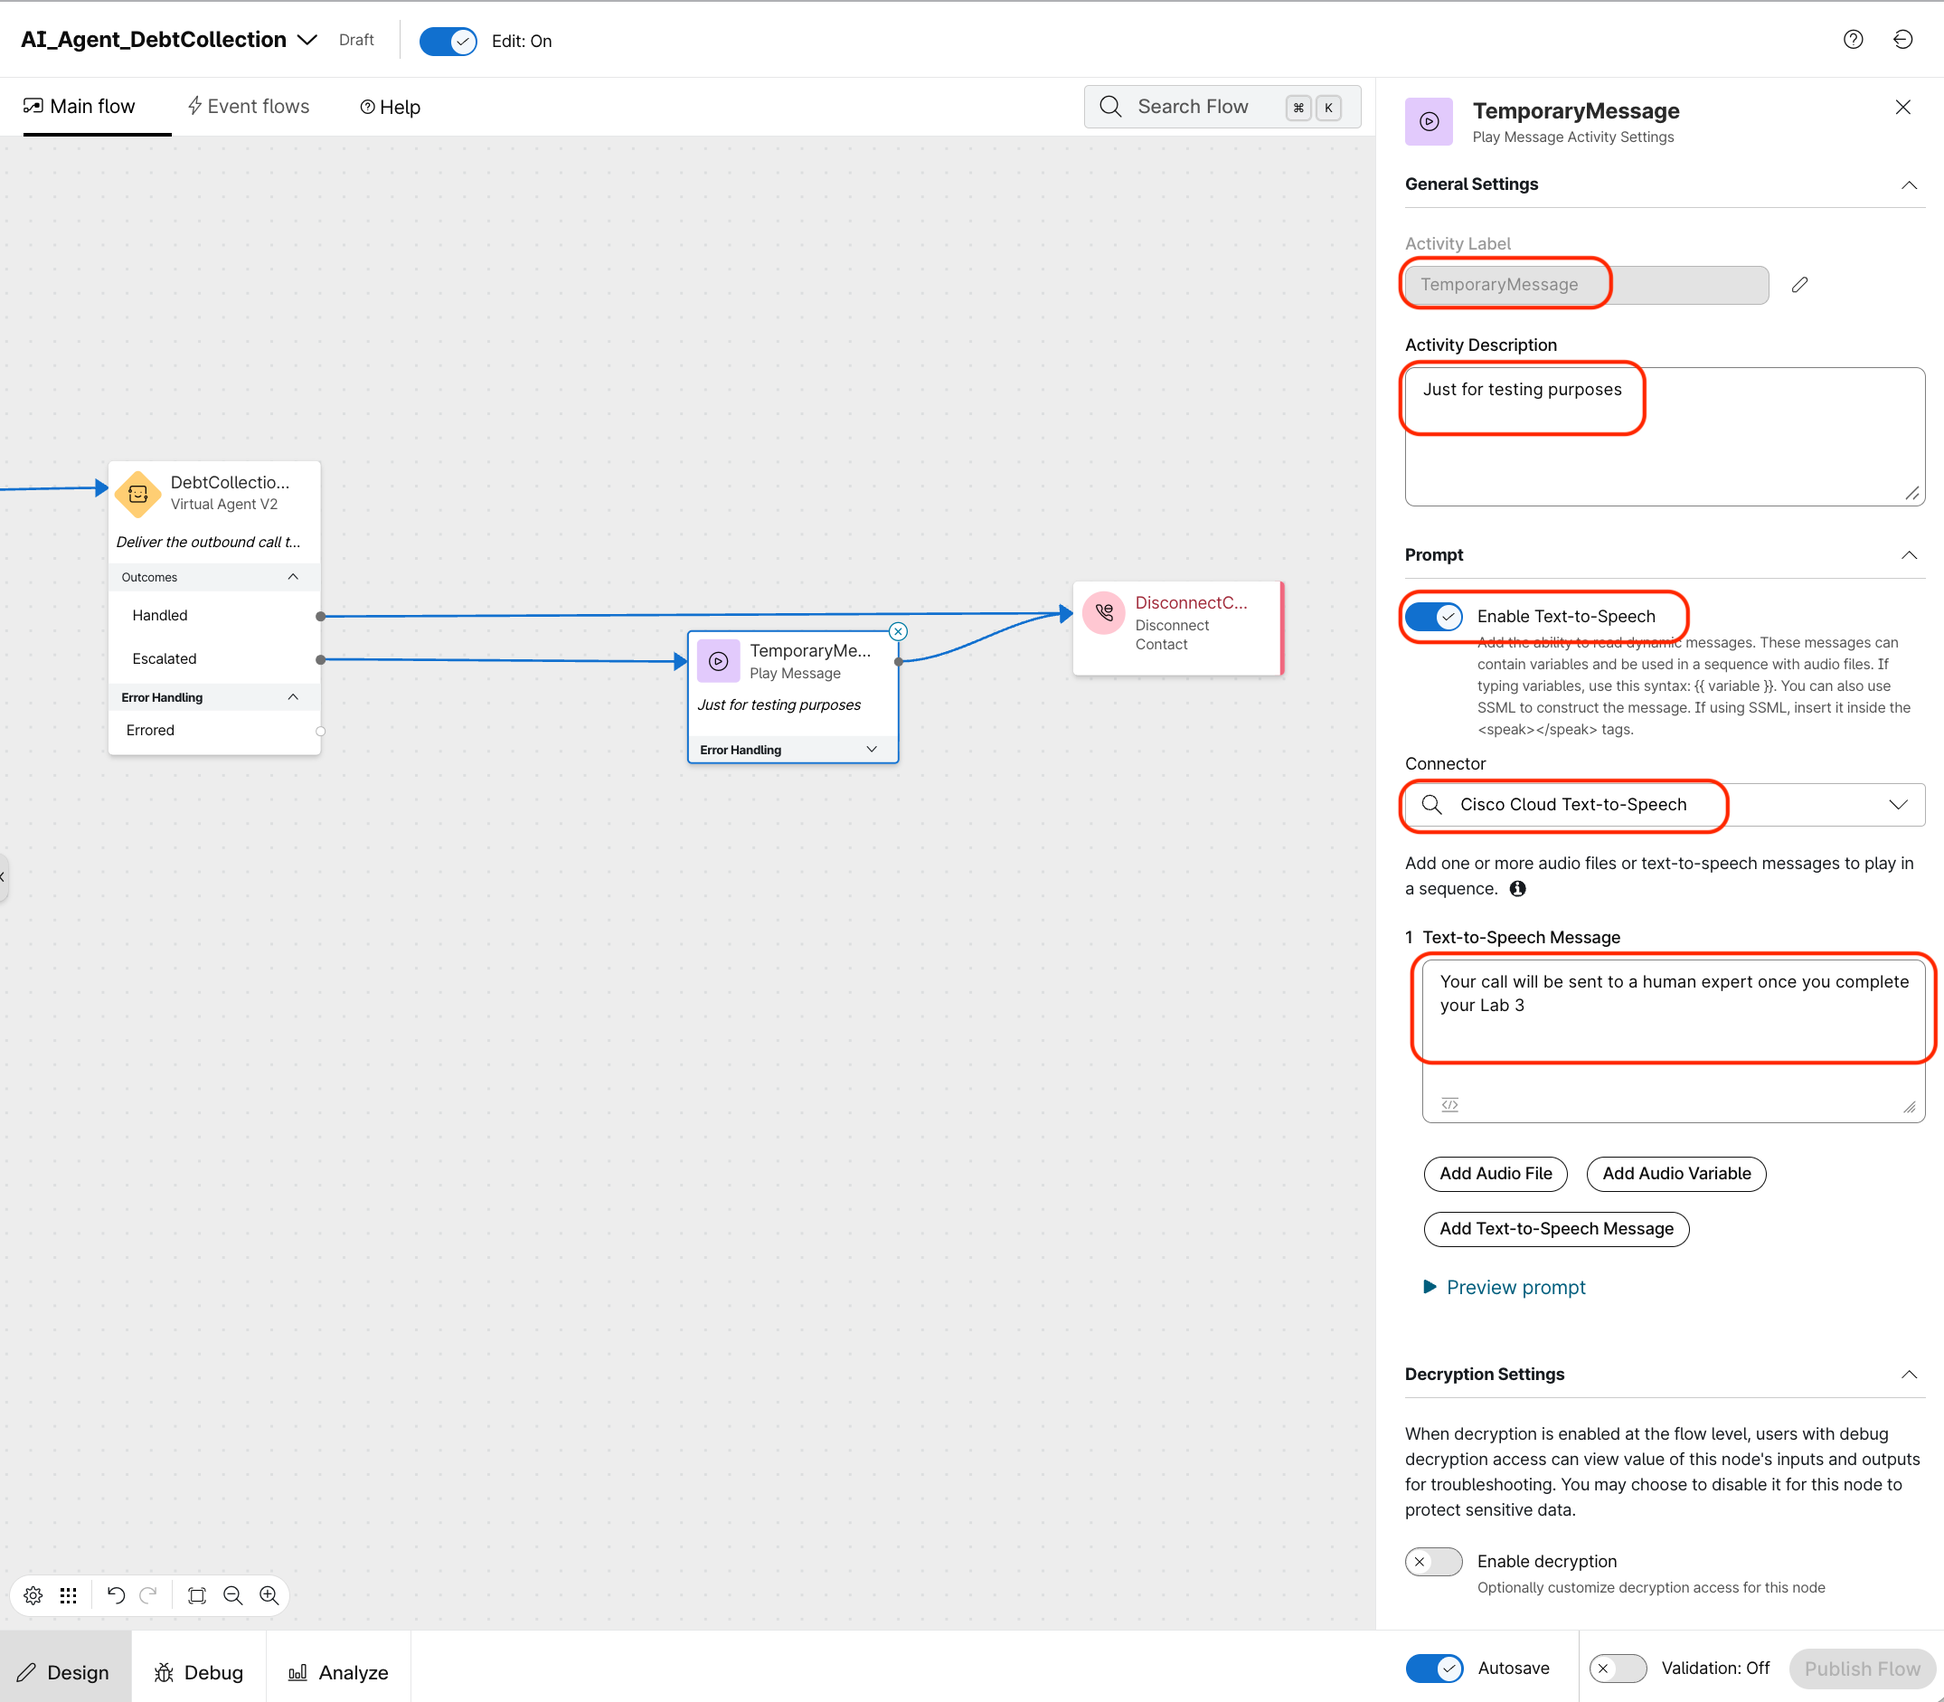
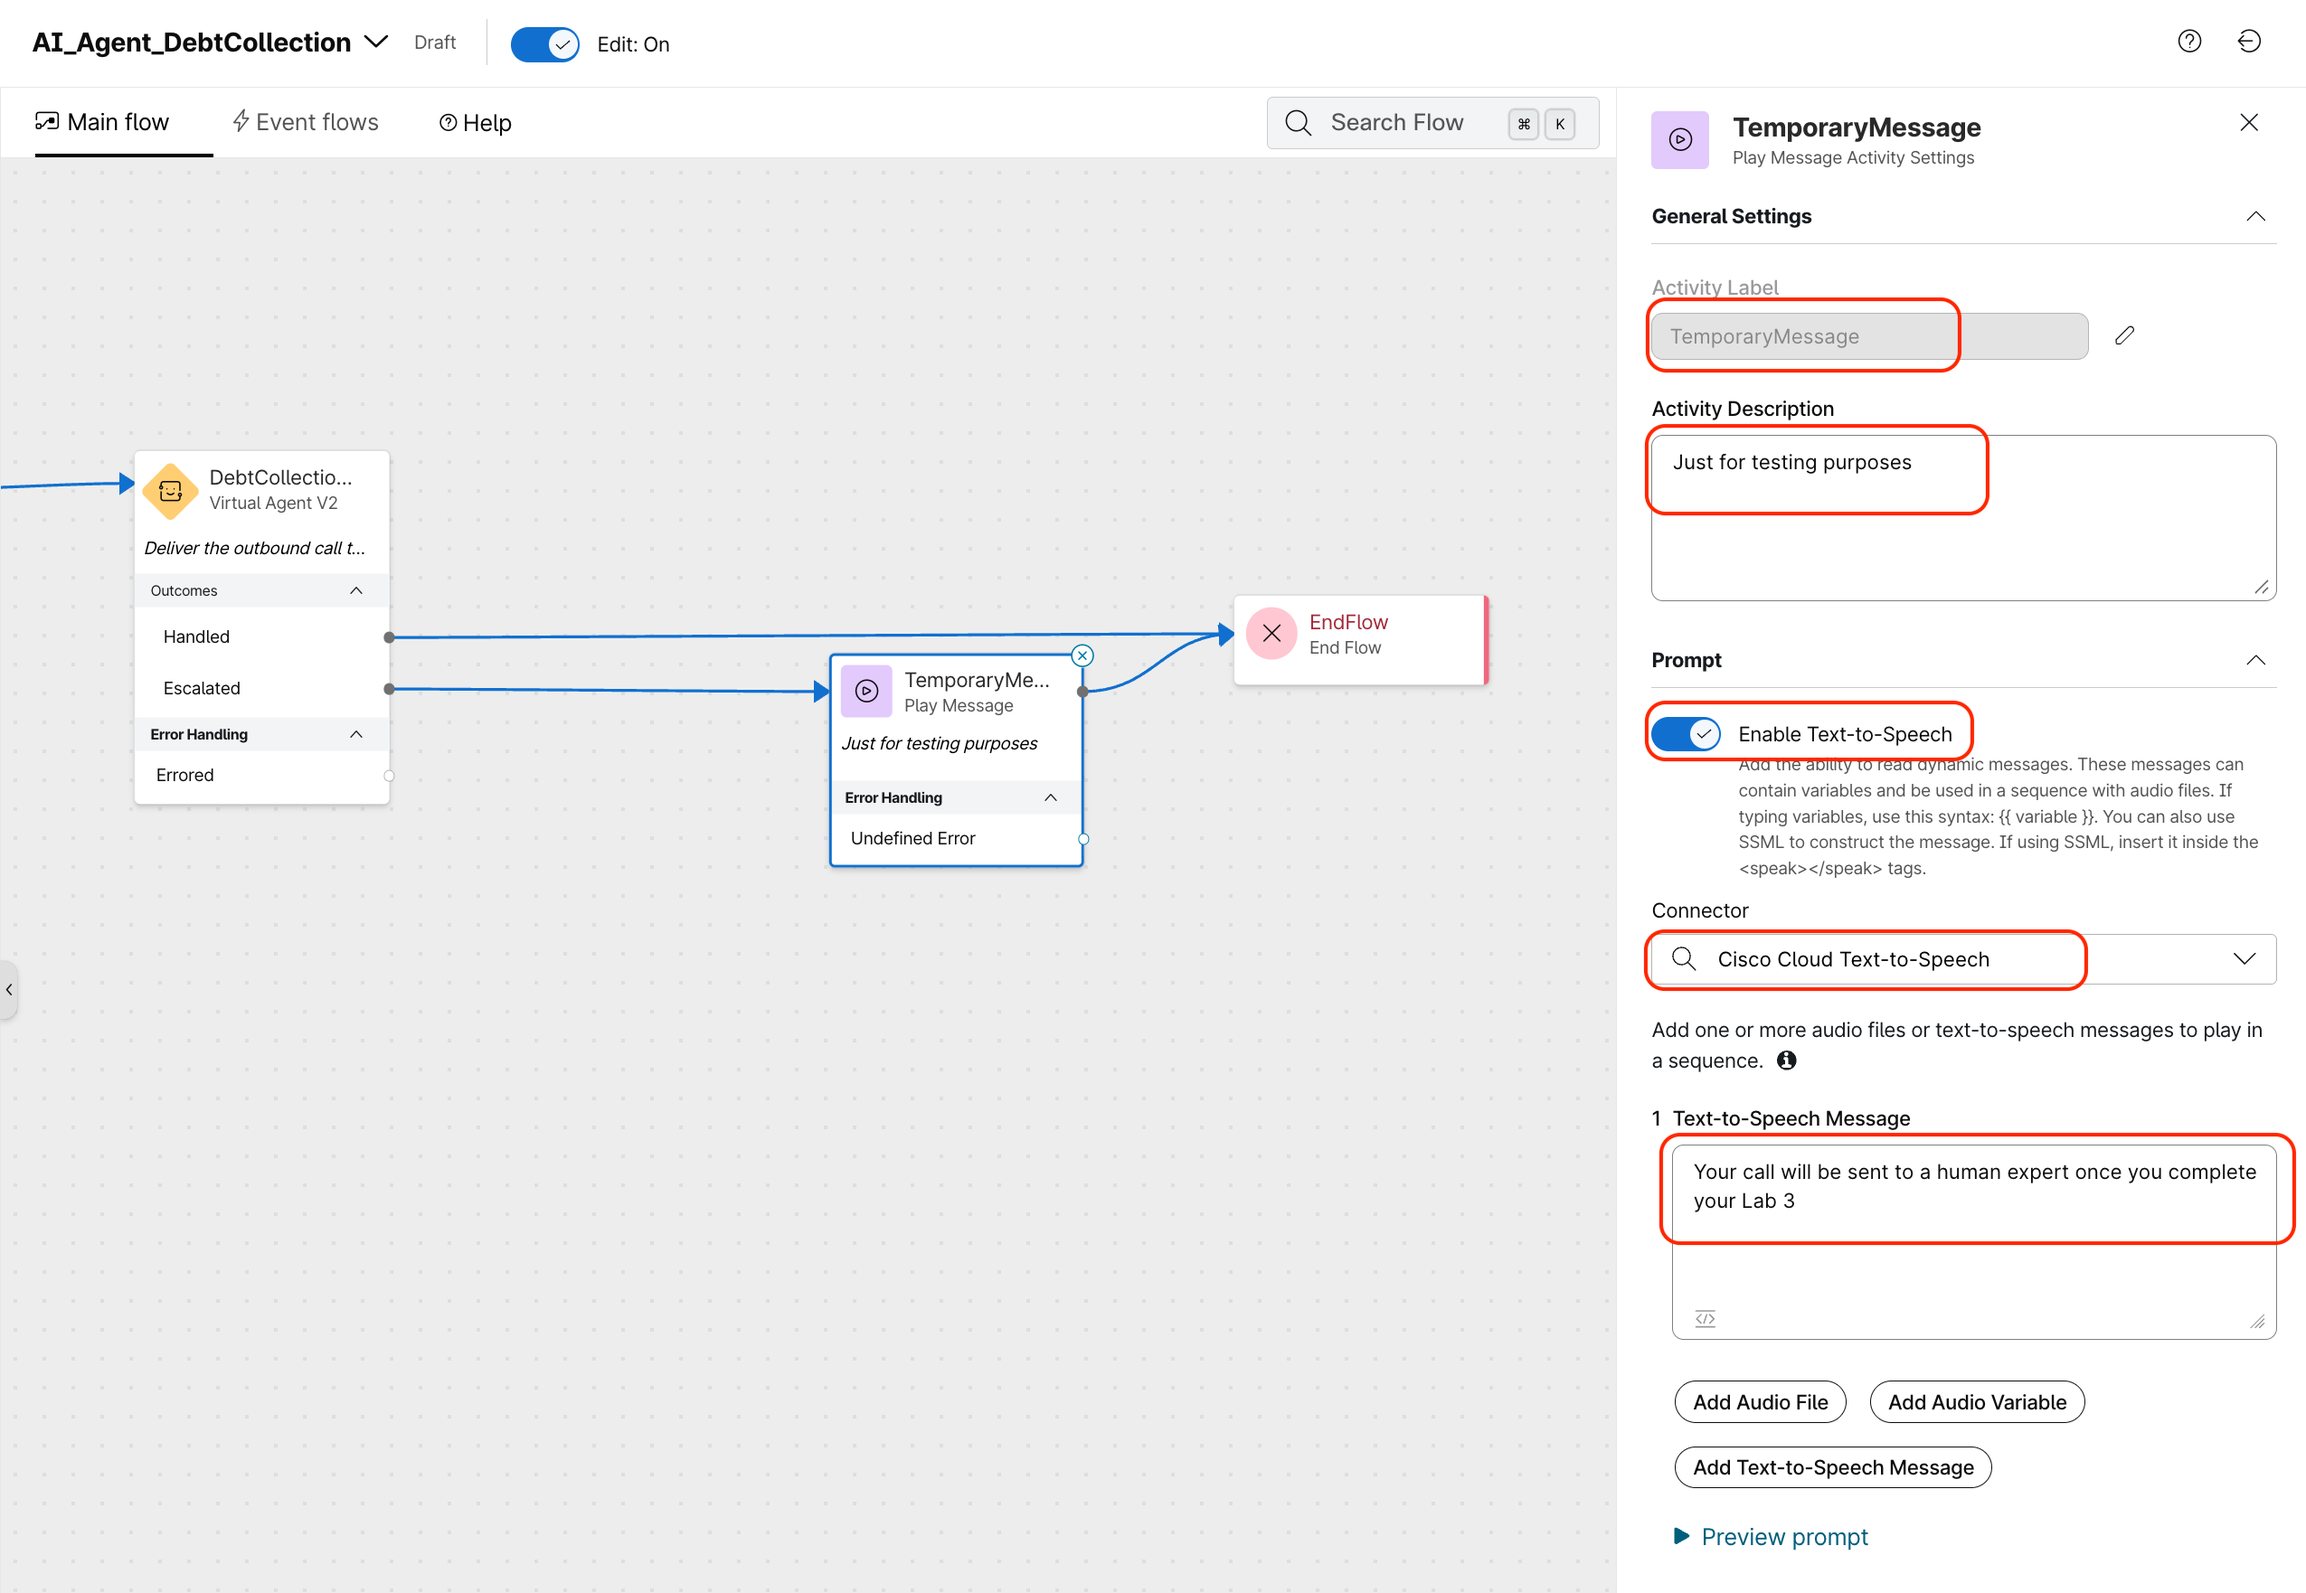
endflow correction

diff --git a/docs/lab2_debt_ai_agent.md b/docs/lab2_debt_ai_agent.md
@@ -146,7 +146,7 @@ In this first step, you will define the "brain" and personality of your AI Agent
         Stay within Webex Financial Group’s banking services.
         Never disclose personal customer data or security information like the PIN number.
         ```
-        
+
     4. Click on **[Save changes]**
 
         ???+ tip "Writing Prompts for Autonomous AI Agents"
@@ -1615,7 +1615,7 @@ In the final stage of Lab 2, you will bridge the gap between the Campaign Manage
 
     1. Go to Control Hub -> Contact Center -> Flows
     2. Open your flow **AI_Agent_DebtCollection**
-    3. Delete the **Play Message** node
+    3. Delete the *EndOfLab1* **Play Message** node
     4. From the *Activities Library* drag and drop a **Virtual Agent V2** to the right of the **Start Node**. 
     5. Connect the **Start Node** to the new node.
     6. Click on the **Virtual Agent V2** node and configure the settings below in the *Activity Settings* panel on the right side of the canvas. 
@@ -1646,7 +1646,7 @@ In the final stage of Lab 2, you will bridge the gap between the Campaign Manage
             ![AI Agent node](./assets/AI_Agent%20flow%202.png)
             </figure> 
 
-    7. Connect the *Handled* outcome outlet of the **Virtual Agent** node to the **Disconnect Contact** node.
+    7. Connect the *Handled* outcome outlet of the **Virtual Agent** node to the **End Flow** node.
     8. The *Escalated* outcome will be covered in Lab 3, where we will connect the AI Agent to a queue that routes the call to a human agent. For now, to allow you to test the end-to-end scenario, we will simply play a message: 
 
         ???+ inline end "Play Temporary message"
